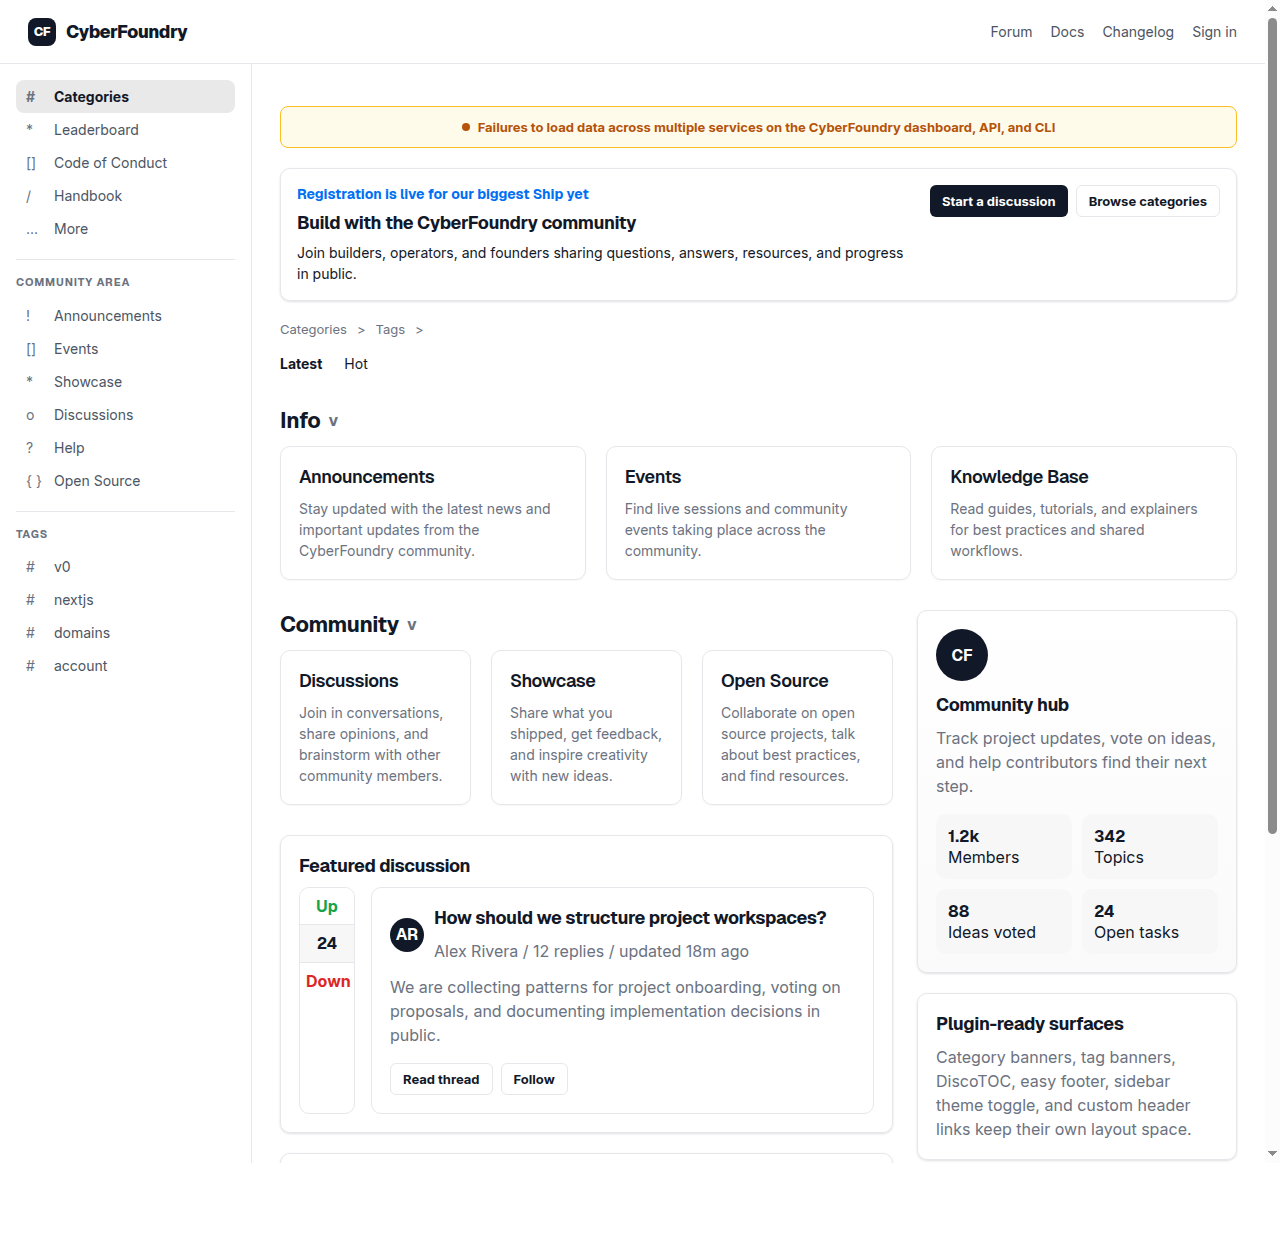
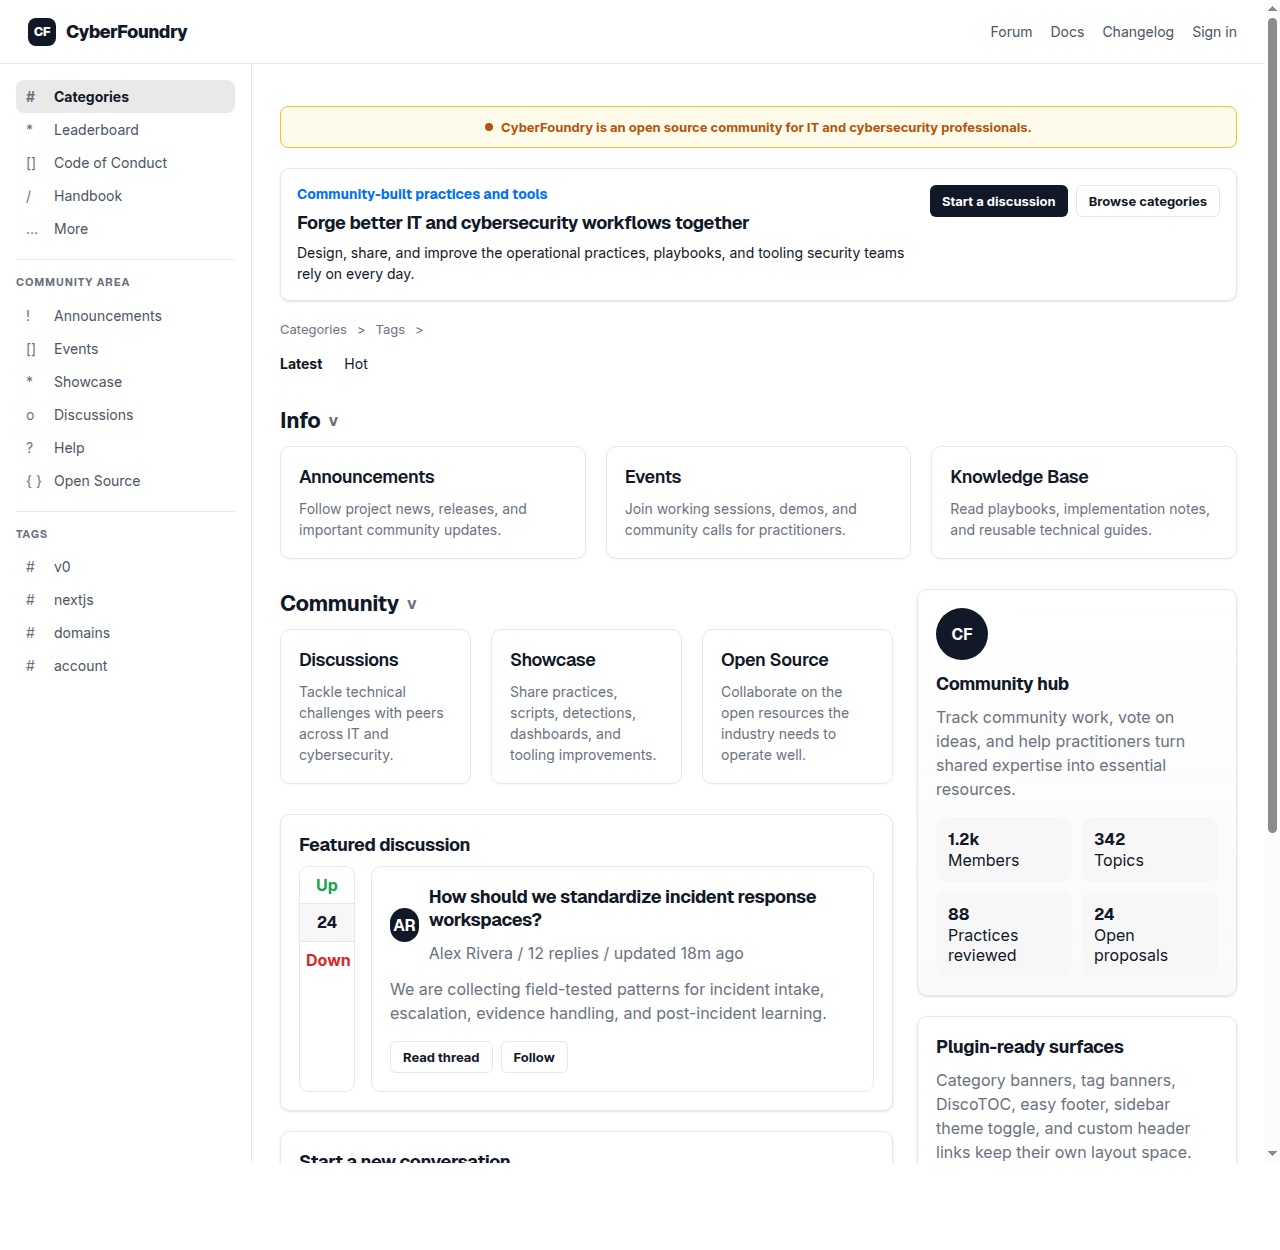
Update theme copy for CyberFoundry mission

diff --git a/preview/index.html b/preview/index.html
@@ -545,16 +545,16 @@
       <main>
         <div class="content">
           <div class="announcement">
-            Failures to load data across multiple services on the CyberFoundry dashboard, API, and CLI
+            CyberFoundry is an open source community for IT and cybersecurity professionals.
           </div>
 
           <section class="intro-card" aria-labelledby="preview-title">
             <div>
-              <div class="intro-kicker">Registration is live for our biggest Ship yet</div>
-              <h1 id="preview-title">Build with the CyberFoundry community</h1>
+              <div class="intro-kicker">Community-built practices and tools</div>
+              <h1 id="preview-title">Forge better IT and cybersecurity workflows together</h1>
               <p>
-                Join builders, operators, and founders sharing questions,
-                answers, resources, and progress in public.
+                Design, share, and improve the operational practices, playbooks,
+                and tooling security teams rely on every day.
               </p>
             </div>
             <div class="button-row">
@@ -580,15 +580,15 @@
             <div class="card-grid">
               <a class="category-card" href="#">
                 <h3>Announcements</h3>
-                <p>Stay updated with the latest news and important updates from the CyberFoundry community.</p>
+                    <p>Follow project news, releases, and important community updates.</p>
               </a>
               <a class="category-card" href="#">
                 <h3>Events</h3>
-                <p>Find live sessions and community events taking place across the community.</p>
+                    <p>Join working sessions, demos, and community calls for practitioners.</p>
               </a>
               <a class="category-card" href="#">
                 <h3>Knowledge Base</h3>
-                <p>Read guides, tutorials, and explainers for best practices and shared workflows.</p>
+                    <p>Read playbooks, implementation notes, and reusable technical guides.</p>
               </a>
             </div>
           </section>
@@ -600,15 +600,15 @@
                 <div class="card-grid">
                   <a class="category-card" href="#">
                     <h3>Discussions</h3>
-                    <p>Join in conversations, share opinions, and brainstorm with other community members.</p>
+                    <p>Tackle technical challenges with peers across IT and cybersecurity.</p>
                   </a>
                   <a class="category-card" href="#">
                     <h3>Showcase</h3>
-                    <p>Share what you shipped, get feedback, and inspire creativity with new ideas.</p>
+                    <p>Share practices, scripts, detections, dashboards, and tooling improvements.</p>
                   </a>
                   <a class="category-card" href="#">
                     <h3>Open Source</h3>
-                    <p>Collaborate on open source projects, talk about best practices, and find resources.</p>
+                    <p>Collaborate on the open resources the industry needs to operate well.</p>
                   </a>
                 </div>
               </section>
@@ -625,13 +625,13 @@
                     <div class="post-meta">
                       <span class="avatar">AR</span>
                       <div>
-                        <h3>How should we structure project workspaces?</h3>
+                        <h3>How should we standardize incident response workspaces?</h3>
                         <p>Alex Rivera / 12 replies / updated 18m ago</p>
                       </div>
                     </div>
                     <p>
-                      We are collecting patterns for project onboarding, voting on
-                      proposals, and documenting implementation decisions in public.
+                      We are collecting field-tested patterns for incident intake,
+                      escalation, evidence handling, and post-incident learning.
                     </p>
                     <div class="button-row" style="margin-top: 16px;">
                       <a class="button secondary" href="#">Read thread</a>
@@ -643,8 +643,8 @@
 
               <section class="panel composer-card" aria-labelledby="composer-title">
                 <h2 id="composer-title">Start a new conversation</h2>
-                <p style="margin-bottom: 12px;">Ask a question, share progress, or propose a community improvement.</p>
-                <textarea aria-label="Draft a new discussion">What are you building with CyberFoundry?</textarea>
+                <p style="margin-bottom: 12px;">Ask a question, share a practice, or propose a tool the community can improve together.</p>
+                <textarea aria-label="Draft a new discussion">What technical challenge should CyberFoundry help solve?</textarea>
                 <div class="button-row" style="justify-content: flex-end; margin-top: 12px;">
                   <a class="button secondary" href="#">Save draft</a>
                   <a class="button primary" href="#">Create topic</a>
@@ -656,7 +656,7 @@
               <section class="panel profile-card">
                 <span class="avatar">CF</span>
                 <h2>Community hub</h2>
-                <p>Track project updates, vote on ideas, and help contributors find their next step.</p>
+                <p>Track community work, vote on ideas, and help practitioners turn shared expertise into essential resources.</p>
                 <div class="stat-grid">
                   <div class="stat">
                     <strong>1.2k</strong>
@@ -668,11 +668,11 @@
                   </div>
                   <div class="stat">
                     <strong>88</strong>
-                    <span>Ideas voted</span>
+                    <span>Practices reviewed</span>
                   </div>
                   <div class="stat">
                     <strong>24</strong>
-                    <span>Open tasks</span>
+                    <span>Open proposals</span>
                   </div>
                 </div>
               </section>
@@ -690,7 +690,7 @@
       <div class="site-footer-inner">
         <div>
           <strong>CyberFoundry</strong>
-          <p>A clean place for thoughtful community conversation.</p>
+          <p>Shared expertise for the tools and practices IT and cybersecurity teams rely on.</p>
         </div>
         <nav class="site-footer-links" aria-label="Footer links">
           <a href="#">About</a>

diff --git a/README.md b/README.md
@@ -1,9 +1,13 @@
 # CyberFoundry Discourse Theme
 
-CyberFoundry is a custom Discourse forum theme for a project community hub. It
-uses a clean, modern interface language inspired by Next.js, shadcn/ui, and
-community.vercel.com: white card surfaces, quiet borders, consistent radius
-tokens, accessible focus rings, Geist headings, and Inter body copy.
+CyberFoundry is a custom Discourse forum theme for an open source community hub
+where Information Technology and Cybersecurity professionals design, share, and
+improve the practices and tools they rely on every day. Founded on shared
+expertise, the community collaboratively tackles technical challenges and forges
+the essential resources the industry requires. The theme uses a clean, modern
+interface language inspired by Next.js, shadcn/ui, and community.vercel.com:
+white card surfaces, quiet borders, consistent radius tokens, accessible focus
+rings, Geist headings, and Inter body copy.
 
 ## What is included
 